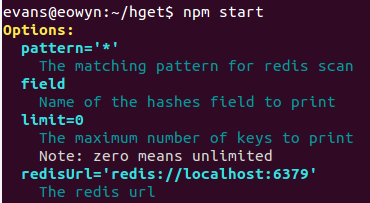
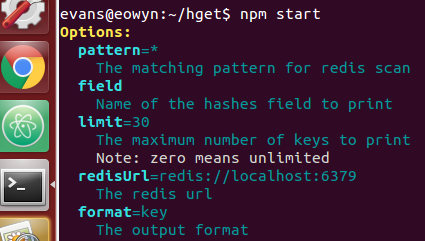
initial

diff --git a/app/config.js b/app/config.js
@@ -1,10 +1,5 @@
 
 module.exports = {
-    development: {
-        logging: 'debug',
-        pattern: '*',
-        format: 'verbose'
-    },
     required: {
         pattern: {
             description: 'the matching pattern for Redis scan',
@@ -16,21 +11,25 @@ module.exports = {
         limit: {
             default: 30,
             description: 'the maximum number of keys to print',
-            note: 'zero means unlimited',
-            example: 0
+            note: 'zero means unlimited'
         },
         redisUrl: {
             default: 'redis://localhost:6379',
             description: 'the Redis URL'
         },
+        format: {
+            default: 'key',
+            description: 'the output format',
+            options: ['key', 'field', 'both', 'value', 'all']
+        },
         logging: {
             default: 'info',
             description: 'the logging level'
         },
-        format: {
-            default: 'terse',
-            description: 'the output format',
-            options: ['terse', 'verbose']
-        },
-    }
+    },
+    development: {
+        logging: 'debug',
+        pattern: '*',
+        format: 'verbose'
+    },
 };

diff --git a/app/index.js b/app/index.js
@@ -5,6 +5,7 @@ async function main(context) {
     Object.assign(global, context);
     logger.level = config.logging;
     logger.debug('main', config);
+    let count = 0;
     try {
         let cursor;
         while (cursor !== 0) {
@@ -15,6 +16,9 @@ async function main(context) {
             await Promise.map(result[1], async key => {
                 console.log(key);
             });
+            if (count > config.limit) {
+                console.error('Limit exceeded. Try: limit=0');
+            }
         }
     } catch (err) {
         console.error(err);

diff --git a/components/reduceMetas.js b/components/reduceMetas.js
@@ -70,10 +70,10 @@ const formatMeta = meta => {
     }
     return [
         (meta.example === undefined)
-        ? clc.bold(`${meta.key}`)
-        : (meta.type === 'integer')
-        ? clc.bold(`${meta.key}=${meta.example}`)
-        : clc.bold(`${meta.key}='${meta.example}'`)
+        ? `${clc.bold(meta.key)}`
+        : (meta.type === 'integer' || !/\s/.test(meta.example))
+        ? `${clc.bold(meta.key)}=${meta.example}`
+        : `${clc.bold(meta.key)}='${meta.example}'`
         ,
         ...lines.map(line => `  ${line}`)
     ];

diff --git a/README.md b/README.md
@@ -7,13 +7,37 @@ Containerized utility to scan Redis keys and hget a field of any hashes.
 
 ## Config
 
+See `app/config.js`
 ```javascript
+module.exports = {
+    required: {
+        pattern: {
+            description: 'the matching pattern for Redis scan',
+            example: '*'
+        },
+        field: {
+            description: 'name of the hashes field to print'
+        },
+        limit: {
+            default: 30,
+            description: 'the maximum number of keys to print',
+            note: 'zero means unlimited',
+            example: 0
+        },
+        redisUrl: {
+            default: 'redis://localhost:6379',
+            description: 'the Redis URL'
+        },
+        format: {
+            default: 'terse',
 ```
 where the default `redisUrl` is `'redis://localhost:6379'`
 
 ## Implementation
 
+See `app/index.js`
 ```javascript
+
 ```
 
 ## Docker
